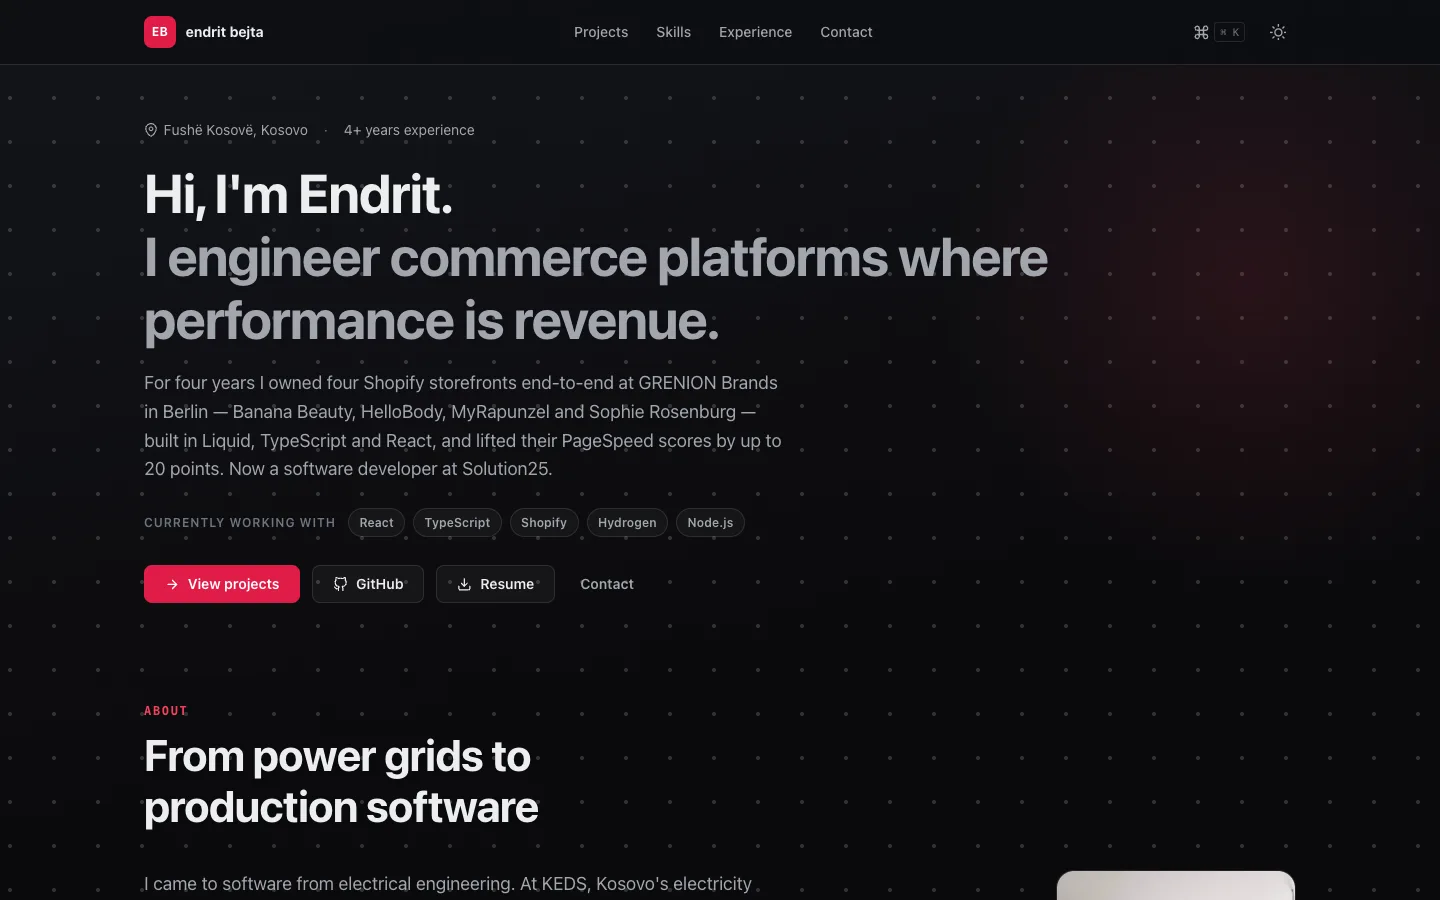
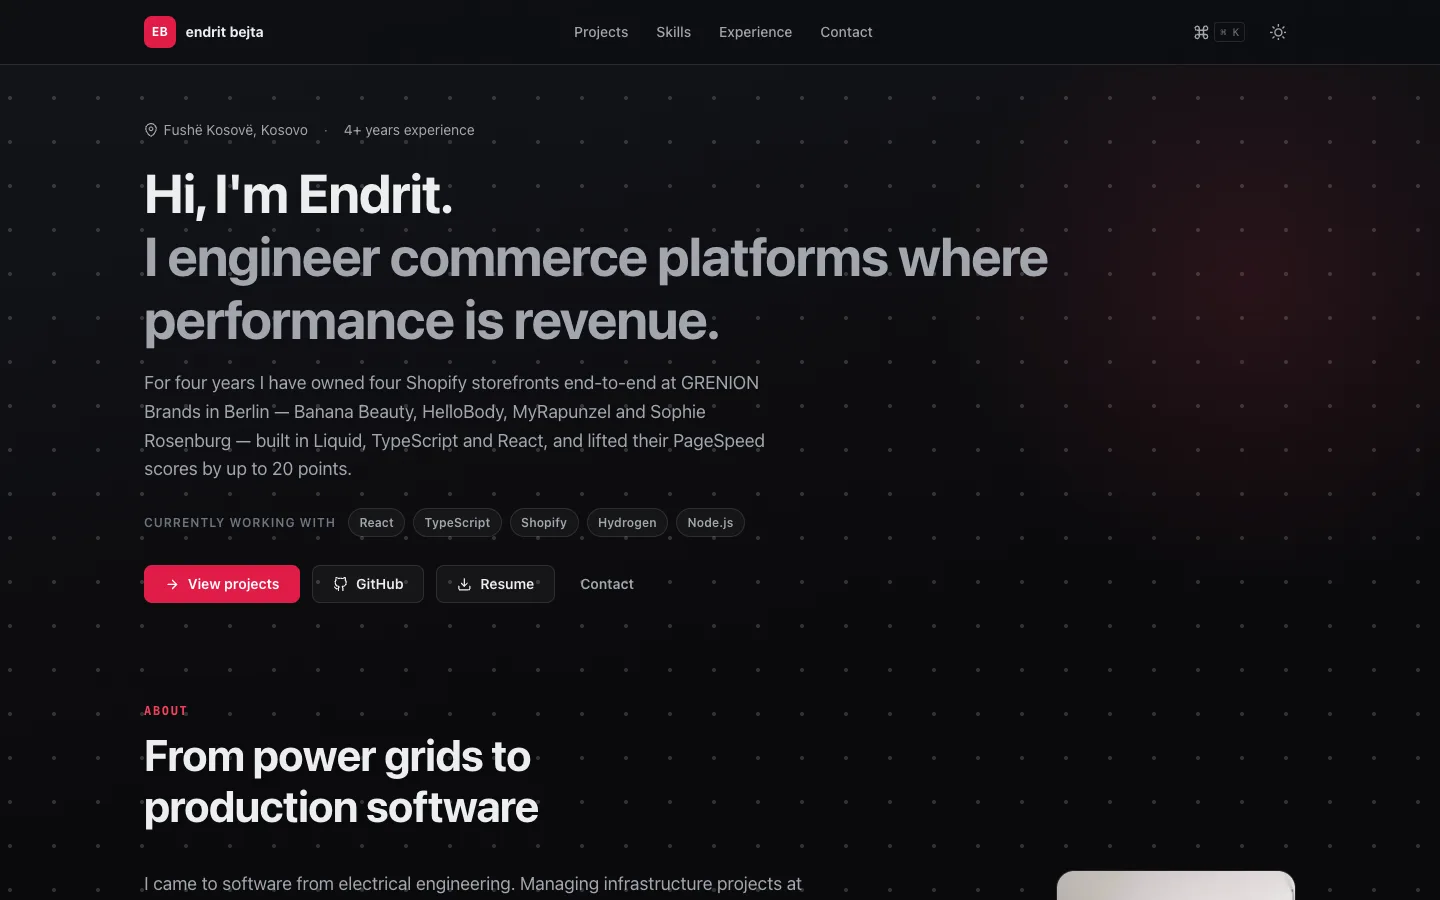
content: update experience timeline and summary wording
- Remove one role from the experience timeline, hero summary and structured
  data
- GRENION Brands is the current role: period reads "Jan 2022 — Present",
  the hero summary and About copy use the present tense, and the JSON-LD
  worksFor points back at it
- Re-capture the portfolio's own screenshots to match

Changed region(s): [[0.0938, 0.4044, 0.5312, 0.5289], [0.3438, 0.9644, 0.5625, 0.9956]]

diff --git a/src/data/profile.js b/src/data/profile.js
@@ -16,10 +16,10 @@ export const profile = {
   portrait,
   currentStack: ["React", "TypeScript", "Shopify", "Hydrogen", "Node.js"],
   summary:
-    "For four years I owned four Shopify storefronts end-to-end at GRENION Brands in Berlin — Banana Beauty, HelloBody, MyRapunzel and Sophie Rosenburg — built in Liquid, TypeScript and React, and lifted their PageSpeed scores by up to 20 points. Now a software developer at Solution25.",
+    "For four years I have owned four Shopify storefronts end-to-end at GRENION Brands in Berlin — Banana Beauty, HelloBody, MyRapunzel and Sophie Rosenburg — built in Liquid, TypeScript and React, and lifted their PageSpeed scores by up to 20 points.",
   about: [
     "I came to software from electrical engineering. Managing infrastructure projects at KEDS, Kosovo's electricity distribution company, taught me to think in systems, constraints and failure modes before committing to an implementation.",
-    "From 2022 to 2026 I was the engineer behind production commerce storefronts at GRENION Brands, owning them end to end — from architecture and delivery to performance and reliability. I care about the unhappy paths as much as the happy ones, and I'm most interested in the architecture that connects storefronts to the platforms behind them.",
+    "Since 2022 I have been the engineer behind production commerce storefronts at GRENION Brands, owning them end to end — from architecture and delivery to performance and reliability. I care about the unhappy paths as much as the happy ones, and I'm most interested in the architecture that connects storefronts to the platforms behind them.",
   ],
   education: {
     school: "Universiteti i Prishtinës 'Hasan Prishtina'",

diff --git a/src/data/experience.js b/src/data/experience.js
@@ -3,14 +3,7 @@
  */
 export const timeline = [
   {
-    period: "Aug 2026 — Present",
-    title: "Software Developer — Solution25",
-    items: [
-      "Recently joined — building software as part of the Solution25 engineering team",
-    ],
-  },
-  {
-    period: "Jan 2022 — Aug 2026",
+    period: "Jan 2022 — Present",
     title: "Shopify Developer — GRENION Brands",
     meta: "Berlin, Germany (Remote) · Banana Beauty, HelloBody, MyRapunzel, Sophie Rosenburg",
     items: [

diff --git a/index.html b/index.html
@@ -51,7 +51,7 @@
           "addressCountry": "XK"
         },
         "alumniOf": "Universiteti i Prishtinës \u0027Hasan Prishtina\u0027",
-        "worksFor": { "@type": "Organization", "name": "Solution25" },
+        "worksFor": { "@type": "Organization", "name": "GRENION Brands" },
         "sameAs": [
           "https://github.com/endritbejta",
           "https://linkedin.com/in/endritbejta"
